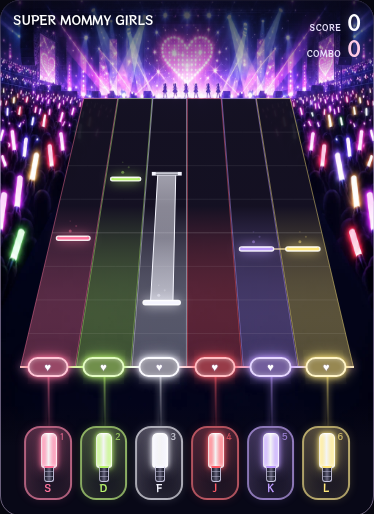
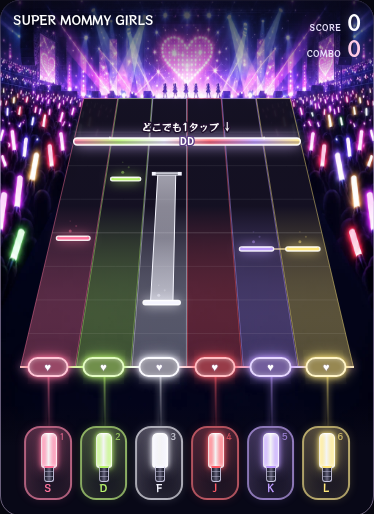
Ease hold releases and slide transfers with slimmer DD and themed results

Changed region(s): [[0.1765, 0.2179, 0.8235, 0.3113]]

diff --git a/src/engine.ts b/src/engine.ts
@@ -3,6 +3,8 @@ import { copyNote } from './chart';
 import { playableNotes, chordGroups } from './note-display';
 
 export const WINDOWS = { PERFECT: 0.05, GREAT: 0.1, GOOD: 0.16 } as const;
+/** More forgiving releases and slide checkpoints; starts still use WINDOWS. */
+export const HOLD_WINDOWS = { PERFECT: 0.1, GREAT: 0.18, GOOD: 0.25 } as const;
 export const POINTS = { PERFECT: 1000, GREAT: 700, GOOD: 300, MISS: 0 } as const;
 export const BOX_WINDOWS = { PERFECT:.15, GREAT:.25, GOOD:.35 } as const;
 export const BOX_SWEEP_SECONDS = .25;
@@ -14,11 +16,11 @@ export interface Hit { judgement: Judgement; lane: number; errorMs: number; note
 export const playLane = (note: PlayNote): number => note.activeLane ?? note.lane;
 const EPSILON = 1e-8;
 
-export function judge(error: number): Judgement {
+export function judge(error: number, windows: Readonly<Record<'PERFECT' | 'GREAT' | 'GOOD', number>> = WINDOWS): Judgement {
   const absolute = Math.abs(error);
-  if (absolute <= WINDOWS.PERFECT + EPSILON) return 'PERFECT';
-  if (absolute <= WINDOWS.GREAT + EPSILON) return 'GREAT';
-  if (absolute <= WINDOWS.GOOD + EPSILON) return 'GOOD';
+  if (absolute <= windows.PERFECT + EPSILON) return 'PERFECT';
+  if (absolute <= windows.GREAT + EPSILON) return 'GREAT';
+  if (absolute <= windows.GOOD + EPSILON) return 'GOOD';
   return 'MISS';
 }
 
@@ -84,17 +86,17 @@ export class GameEngine {
       }
       if (note.state === 'holding' && note.type === 'hold') {
         const point = note.path?.[note.pathIndex ?? 0];
-        if (point && time - point.time > WINDOWS.GOOD + EPSILON) { updates.push(this.record(note, 'MISS', time - point.time)); continue; }
+        if (point && time - point.time > HOLD_WINDOWS.GOOD + EPSILON) { updates.push(this.record(note, 'MISS', time - point.time)); continue; }
         // Transfer on either the new press, or release of the old key while the next is held.
         // Holding both before the checkpoint alone cannot score it.
         const releasedCurrent = previousPressed.has(playLane(note)) && !pressed?.has(playLane(note));
-        if (point && pressed?.has(point.lane) && (!previousPressed.has(point.lane) || releasedCurrent) && Math.abs(time - point.time) <= WINDOWS.GOOD + EPSILON) {
-          const error = time - point.time, judgement = judge(error);
+        if (point && pressed?.has(point.lane) && (!previousPressed.has(point.lane) || releasedCurrent) && Math.abs(time - point.time) <= HOLD_WINDOWS.GOOD + EPSILON) {
+          const error = time - point.time, judgement = judge(error, HOLD_WINDOWS);
           note.activeLane = point.lane; note.pathIndex = (note.pathIndex ?? 0) + 1;
           if (POINTS[judgement] < POINTS[note.startJudgement ?? 'MISS']) { note.startJudgement = judgement; note.startError = error; }
           updates.push({judgement, lane: point.lane, errorMs: error * 1000, noteId: note.id, phase: 'move'});
         }
-        if (time - note.endTime > WINDOWS.GOOD + EPSILON || (pressed && !pressed.has(playLane(note)))) {
+        if (time - note.endTime > HOLD_WINDOWS.GOOD + EPSILON || (pressed && !pressed.has(playLane(note)))) {
           const hit = this.finishHold(note, time);
           updates.push(hit);
         }
@@ -160,7 +162,7 @@ export class GameEngine {
 
   private finishHold(note: PlayNote & { type: 'hold' }, time: number): Hit {
     if ((note.pathIndex ?? 0) < (note.path?.length ?? 0)) return this.record(note, 'MISS', time - note.endTime);
-    const endJudgement = judge(time - note.endTime), startJudgement = note.startJudgement ?? 'MISS';
+    const endJudgement = judge(time - note.endTime, HOLD_WINDOWS), startJudgement = note.startJudgement ?? 'MISS';
     const endIsWorse = POINTS[endJudgement] < POINTS[startJudgement];
     return this.record(note, endIsWorse ? endJudgement : startJudgement, endIsWorse ? time - note.endTime : note.startError ?? 0);
   }

diff --git a/tests/gimmicks.test.ts b/tests/gimmicks.test.ts
@@ -136,21 +136,21 @@ describe('slide gestures', () => {
     const engine = new GameEngine(chart([slide()])); engine.input(0,1);
     engine.advance(2.12,new Set([0,1])); expect(engine.release(0,2.13)).toEqual([]);
     engine.advance(2.5,new Set([1])); engine.advance(3,new Set([1,2])); engine.release(1,3);
-    expect(engine.release(2,4)[0].judgement).toBe('GOOD'); expect(engine.score).toBe(300);
+    expect(engine.release(2,4)[0].judgement).toBe('GREAT'); expect(engine.score).toBe(700);
   });
   it('fails when released early, at a missed checkpoint, or after holding past the tail', () => {
     for (const mode of ['release','checkpoint','tail']) {
       const engine = new GameEngine(chart([slide()])); engine.input(0,1);
       if (mode==='release') engine.release(0,1.5);
-      if (mode==='checkpoint') engine.advance(2.17,new Set([0]));
-      if (mode==='tail') {engine.advance(2,new Set([1]));engine.advance(3,new Set([2]));engine.advance(4.17,new Set([2]));}
+      if (mode==='checkpoint') engine.advance(2.2501,new Set([0]));
+      if (mode==='tail') {engine.advance(2,new Set([1]));engine.advance(3,new Set([2]));engine.advance(4.2501,new Set([2]));}
       expect(engine.score).toBe(0); expect(engine.counts.MISS).toBe(1); expect(engine.finished).toBe(true);
       engine.advance(5,new Set()); expect(engine.counts.MISS).toBe(1);
     }
   });
   it('does not accept a next key held too early or a skipped intermediate lane', () => {
     const engine = new GameEngine(chart([slide()])); engine.input(0,1);
-    engine.advance(1.5,new Set([0,1])); engine.advance(2,new Set([0,1])); engine.advance(2.17,new Set([0,1]));
+    engine.advance(1.5,new Set([0,1])); engine.advance(2,new Set([0,1])); engine.advance(2.2501,new Set([0,1]));
     expect(engine.counts.MISS).toBe(1); expect(engine.score).toBe(0);
     engine.reset(); engine.input(0,1); engine.advance(2,new Set([2])); expect(engine.counts.MISS).toBe(1);
   });
@@ -159,6 +159,27 @@ describe('slide gestures', () => {
     engine.seek(3,false); expect(engine.notes[0].state).toBe('skipped');
     engine.seek(0,true); expect(engine.notes[0].pathIndex).toBeUndefined();
     engine.notes[0].path![0].time=99; expect(data.notes[0].path![0].time).toBe(2);
+  });
+  it.each([[-.2501,'MISS'],[-.25,'GOOD'],[-.18,'GREAT'],[-.1,'PERFECT'],[.1,'PERFECT'],[.1001,'GREAT'],[.18,'GREAT'],[.1801,'GOOD'],[.25,'GOOD'],[.2501,'MISS']] as const)('accepts a distant checkpoint at %ss only inside the extended window', (error, judgement) => {
+    const note = slide(); note.path = [{time:2,lane:5}];
+    const engine = new GameEngine(chart([note]));
+    engine.advance(1,new Set([0])); engine.input(0,1);
+    const hits = engine.advance(2+error,new Set([5]));
+    expect(hits[0].judgement).toBe(judgement);
+    if (judgement !== 'MISS') {
+      expect(hits[0]).toMatchObject({phase:'move',lane:5});
+      expect(engine.score).toBe(0); expect(engine.combo).toBe(0);
+      expect(engine.release(5,4)[0].judgement).toBe(judgement);
+    }
+    expect(engine.counts[judgement]).toBe(1);
+    engine.advance(5,new Set()); expect(Object.values(engine.counts).reduce((a,b)=>a+b,0)).toBe(1);
+  });
+  it('does not apply the wider hold windows to taps, DD or slide starts', () => {
+    for (const note of [{id:1,type:'tap' as const,time:1,lane:0},{id:1,type:'tap' as const,gimmick:'dd' as const,time:1,lane:0},slide()]) {
+      const engine = new GameEngine(chart([note]));
+      expect(engine.input(0,.8)).toBeNull();
+      engine.advance(1.1601,new Set()); expect(engine.counts.MISS).toBe(1);
+    }
   });
 });
 

diff --git a/tests/browser/hold-tolerance.spec.ts b/tests/browser/hold-tolerance.spec.ts
@@ -1,0 +1,46 @@
+import {test,expect} from '@playwright/test';
+import type {Page} from '@playwright/test';
+import {api} from './mock-video';
+
+async function advanceTo(page:Page,time:number) {
+  const current=await page.evaluate(()=>(window as any).testVideo.getCurrentTime());
+  await page.clock.runFor(Math.round((time-current)*1000));
+}
+
+for(const slide of [false,true]) for(const error of [-.22,.22]) test(`${slide?'slide checkpoints and tail':'hold tail'} accept ${error<0?'early':'late'} 220ms input through the game controls`,async({page},info)=>{
+  await page.clock.install({time:new Date('2026-10-17T00:00:00Z')});
+  await page.clock.pauseAt(new Date('2026-10-17T00:00:01Z'));
+  await page.route('https://www.youtube.com/iframe_api',route=>route.fulfill({body:api}));
+  await page.addInitScript(slide=>{
+    localStorage.setItem('hey-rhythm-settings-v1',JSON.stringify({sound:false}));
+    localStorage.setItem('hey-rhythm-custom-chart-v1',JSON.stringify({videoId:'pJDfWpZ7CI4',title:'gentle holds',bpm:120,startTime:10,
+      notes:[{id:1,type:'hold',time:10,endTime:13,lane:0,...(slide?{gimmick:'slide',path:[{time:11,lane:5}]}:{})}]}));
+  },slide);
+  await page.goto('/game.html?chart=custom');
+  // Let the async mock API load before advancing its paused onReady timer.
+  await expect.poll(()=>page.evaluate(()=>Boolean((window as any).testVideo))).toBe(true);
+  await page.clock.runFor(100);
+  await expect(page.locator('#restart')).toBeEnabled();
+  await page.evaluate(()=>{(window as any).testVideo.seekTo(10);(window as any).testVideo.playVideo();});
+  await page.clock.runFor(16);
+  const touch=info.project.name==='mobile-touch'?await page.context().newCDPSession(page):null;
+  const pads=await page.locator('.lane-button').evaluateAll(nodes=>nodes.map(node=>{const r=node.getBoundingClientRect();return{id:1,x:r.x+r.width/2,y:r.y+r.height/2};}));
+  if(touch) await touch.send('Input.dispatchTouchEvent',{type:'touchStart',touchPoints:[pads[0]]});
+  else await page.keyboard.down('s');
+  await expect(page.locator('#judgement-0 .judgement-label')).toHaveText('HOLD');
+  if(slide) {
+    await advanceTo(page,11+error);
+    if(touch) await touch.send('Input.dispatchTouchEvent',{type:'touchMove',touchPoints:[pads[5]]});
+    else {await page.keyboard.down('l');await page.keyboard.up('s');}
+    await expect(page.locator('#judgement-5 .judgement-label')).toHaveText(/推し変|HOLD/);
+  }
+  await advanceTo(page,13+error);
+  await expect(page.locator('#score')).toHaveText('0');
+  if(touch) await touch.send('Input.dispatchTouchEvent',{type:'touchEnd',touchPoints:[]});
+  else await page.keyboard.up(slide?'l':'s');
+  await expect(page.locator('#score')).toHaveText('300');
+  await expect(page.locator('#combo')).toHaveText('1');
+  await expect(page.locator('#result h2')).toHaveText('レスキャッチ完了！');
+  await expect(page.locator('#result-counts div').filter({hasText:'GOOD'}).locator('strong')).toHaveText('1');
+  await touch?.detach();
+});

diff --git a/game.html b/game.html
@@ -85,7 +85,8 @@
           <label for="travel">ノーツ落下時間 <output id="travel-value">2.50秒</output></label>
           <input id="travel" type="range" min="1" max="4" step="0.25" value="2.5" />
           <p class="field-help">ノーツが現れてから判定ラインに届くまでの時間です。大きくすると早めに見えて余裕が増えます。初期値は2.5秒。保存済みの値は引き継ぎます。</p>
-          <p class="field-help">判定はノーツの中心で行います。薄い帯がGOOD（±160ms）、中間がGREAT（±100ms）、濃い帯がPERFECT（±50ms）。</p>
+          <p class="field-help">通常のタップ・長推しの始点はノーツの中心で判定します。薄い帯がGOOD（±160ms）、中間がGREAT（±100ms）、濃い帯がPERFECT（±50ms）。</p>
+          <p class="field-help">長推し・推し変の終点と、推し変の持ち替えはゆったり判定：PERFECT ±100ms／GREAT ±180ms／GOOD ±250ms。</p>
           <p class="field-help">バーの厚さは曲全体で16分音符に合わせて統一しています。密な譜面は落下時間を短くすると間隔が広がります。ハート付きのバーを押し、長い帯は二重線の終点で離します。連結線は同時推し、横向きの矢印は推し変の持ち替えタイミングです。</p>
           <label for="offset">ノーツ全体の位置 <output id="offset-value">0 ms</output></label>
           <input id="offset" type="range" min="-300" max="300" step="10" value="0" />
@@ -109,7 +110,7 @@
           <p id="storage-status" class="field-help">設定はこのブラウザに保存されます。</p>
         </section>
         <section id="result" class="panel result" aria-label="プレイ結果" tabindex="-1" hidden>
-          <div class="panel-heading"><div><p class="eyebrow">LIVE COMPLETE</p><h2>おつかれさまでした！</h2></div><button id="result-close" class="text-button">閉じる ×</button></div>
+          <div class="panel-heading"><div><p class="eyebrow">LIVE COMPLETE</p><h2>レスキャッチ完了！</h2></div><button id="result-close" class="text-button">閉じる ×</button></div>
           <div class="result-headline"><strong id="result-score">0</strong><span>SCORE</span><span id="result-combo"></span></div>
           <div id="result-counts" class="result-counts"></div><p id="result-accuracy" class="field-help"></p>
           <p class="field-help">MVはそのまま再生されます。もう一度遊ぶならリスタート！</p>

diff --git a/tests/browser/gimmicks.spec.ts b/tests/browser/gimmicks.spec.ts
@@ -1,6 +1,6 @@
 import {test,expect} from '@playwright/test';
 import {readFileSync} from 'node:fs';
-import {api,seekPlay,waitForVideoTime} from './mock-video';
+import {api} from './mock-video';
 
 const sample=readFileSync(new URL('../../charts/source/oshi-gimmicks.mid',import.meta.url));
 const saved = (page: import('@playwright/test').Page) => page.evaluate(() => JSON.parse(localStorage.getItem('hey-rhythm-editor-v1')!));
@@ -40,11 +40,14 @@ test('edits DD and slide checkpoints through the browser and uses the real game 
   await page.getByRole('button',{name:'ノーツ2を選択',exact:true}).click();await page.locator('#note-type').selectOption('dd');
   await page.locator('#try-game').click();await expect(page.locator('#chart-source')).toHaveValue('custom');
   await expect(page.locator('#play-start')).toBeEnabled();
-  await seekPlay(page,9.75);await waitForVideoTime(page,10);await page.keyboard.down('s');
-  await waitForVideoTime(page,11);await page.keyboard.down('d');await page.keyboard.up('s');
+  // Native key dispatch must not drift out of PERFECT while other browser suites run.
+  await page.clock.install();await page.clock.pauseAt(new Date(Date.now()+1000));
+  await page.evaluate(()=>{const video=(window as any).testVideo;video.seekTo(9.75);video.playVideo();});
+  await page.clock.runFor(250);await page.keyboard.down('s');
+  await page.clock.runFor(1000);await page.keyboard.down('d');await page.keyboard.up('s');
   await expect(page.locator('.judgement-label').nth(1)).toHaveText(/推し変|HOLD/);
-  await waitForVideoTime(page,12);await page.keyboard.down('f');await page.keyboard.up('d');
-  await waitForVideoTime(page,13);await page.keyboard.up('f');await expect(page.locator('#score')).toHaveText('1,000');
-  await waitForVideoTime(page,14);await page.keyboard.press('l');await expect(page.locator('#score')).toHaveText('2,000');
+  await page.clock.runFor(1000);await page.keyboard.down('f');await page.keyboard.up('d');
+  await page.clock.runFor(1000);await page.keyboard.up('f');await expect(page.locator('#score')).toHaveText('1,000');
+  await page.clock.runFor(1000);await page.keyboard.press('l');await expect(page.locator('#score')).toHaveText('2,000');
   await expect(page.locator('#result-score')).toHaveText('2,000');
 });

diff --git a/src/renderer.ts b/src/renderer.ts
@@ -1,5 +1,5 @@
 import type { PlayNote } from './engine';
-import { BOX_SWEEP_SECONDS, BOX_WINDOWS, WINDOWS, playLane } from './engine';
+import { BOX_SWEEP_SECONDS, BOX_WINDOWS, HOLD_WINDOWS, WINDOWS, playLane } from './engine';
 import { laneAt } from './chart';
 import { slideRoute } from './slide-route';
 import { responseMark } from './response-art';
@@ -78,7 +78,7 @@ export class Renderer {
       const from = route[i - 1], to = route[i];
       if (from.time === to.time) {
         const q = progressAt(to.time);
-        if (q < 0 || q > 1 + WINDOWS.GOOD / travel) continue;
+        if (q < 0 || q > 1 + HOLD_WINDOWS.GOOD / travel) continue;
         const start = project(field, from.lane, q), end = project(field, to.lane, q);
         const gradient = ctx.createLinearGradient(start.x, start.y, end.x, end.y);
         gradient.addColorStop(0, LANE_COLORS[from.lane]); gradient.addColorStop(1, LANE_COLORS[to.lane]);
@@ -95,8 +95,9 @@ export class Renderer {
       }
     }
     if (note.type === 'hold') {
-      const tailP = progressAt(note.endTime);
-      if (tailP >= 0 && tailP <= 1 + WINDOWS.GOOD / travel) {
+      // A held endpoint waits at the receptor throughout the extended release window.
+      const tailP = Math.min(p, progressAt(note.endTime));
+      if (tailP >= 0 && tailP <= 1 + HOLD_WINDOWS.GOOD / travel) {
         const tail = project(field, laneAt(note, note.endTime), tailP);
         this.releaseCap(tail, thickness * tail.scale, LANE_COLORS[laneAt(note, note.endTime)]);
       }
@@ -218,7 +219,7 @@ export class Renderer {
         if (rawTail >= 0) this.releaseCap(tail, referenceThickness * tail.scale, color);
       }
       if (note.gimmick === 'dd') {
-        const center = project(field, 2.5, p), width = project(field, 5.49, p).x - project(field, -.49, p).x, height = 16 * center.scale;
+        const center = project(field, 2.5, p), width = project(field, 5.49, p).x - project(field, -.49, p).x, height = 10 * center.scale;
         const left = center.x - width / 2, top = center.y - height / 2;
         const gradient = ctx.createLinearGradient(left, 0, left + width, 0);
         LANE_COLORS.forEach((color, i) => gradient.addColorStop(i / 5, color));

diff --git a/tests/hold.test.ts b/tests/hold.test.ts
@@ -27,7 +27,7 @@ describe('hold endpoint judgement and chord scoring', () => {
     expect(engine.combo).toBe(0); expect(engine.maxCombo).toBe(1); expect(engine.counts.MISS).toBe(1);
     expect(engine.input(0, 10.05)).toBeNull(); expect(engine.advance(12, held())).toEqual([]);
   });
-  it.each([[10.8399, 'MISS'], [10.84, 'GOOD'], [10.9, 'GREAT'], [10.95, 'PERFECT'], [11, 'PERFECT'], [11.05, 'PERFECT'], [11.1, 'GREAT'], [11.16, 'GOOD'], [11.1601, 'MISS']])('judges the actual endpoint release at %s', (time, expected) => {
+  it.each([[10.7499, 'MISS'], [10.75, 'GOOD'], [10.8199, 'GOOD'], [10.82, 'GREAT'], [10.8999, 'GREAT'], [10.9, 'PERFECT'], [11, 'PERFECT'], [11.1, 'PERFECT'], [11.1001, 'GREAT'], [11.18, 'GREAT'], [11.1801, 'GOOD'], [11.25, 'GOOD'], [11.2501, 'MISS']])('judges the actual endpoint release at %s', (time, expected) => {
     const engine = game(); engine.input(0, 10);
     expect(engine.release(0, time as number)[0].judgement).toBe(expected);
   });
@@ -59,9 +59,9 @@ describe('hold endpoint judgement and chord scoring', () => {
   });
   it('fails a hold that stays pressed beyond the endpoint window without adding points', () => {
     const engine = game(); engine.input(0, 10);
-    expect(engine.advance(11.16, held(0))).toEqual([]); expect(engine.score).toBe(0);
-    expect(engine.advance(11.161, held(0))).toMatchObject([{judgement:'MISS'}]);
-    expect(engine.score).toBe(0); expect(engine.release(0, 11.2)).toEqual([]);
+    expect(engine.advance(11.25, held(0))).toEqual([]); expect(engine.score).toBe(0);
+    expect(engine.advance(11.2501, held(0))).toMatchObject([{judgement:'MISS'}]);
+    expect(engine.score).toBe(0); expect(engine.release(0, 11.3)).toEqual([]);
     expect(engine.counts.MISS).toBe(1);
   });
   it('skips an active hold on forward seek and resets on backwards seek', () => {

diff --git a/tests/browser/response-ui.spec.ts b/tests/browser/response-ui.spec.ts
@@ -51,12 +51,12 @@ test('DD spans all six lanes throughout its flight while keeping a single note h
     const renderer = new Renderer(canvas), ctx = canvas.getContext('2d')!, original = ctx.roundRect.bind(ctx);
     const rect = canvas.getBoundingClientRect(), field = fieldGeometry(rect.width, rect.height);
     const engine = new GameEngine({videoId:'pJDfWpZ7CI4',title:'DD',bpm:120,startTime:10,notes:[{id:1,type:'tap',gimmick:'dd',lane:2,time:10}]});
-    let heads: {left:number;right:number;y:number}[] = [];
-    ctx.roundRect = function(x,y,w,h,r) {heads.push({left:x,right:x+w,y:y+h/2}); original(x,y,w,h,r);};
+    let heads: {left:number;right:number;y:number;height:number}[] = [];
+    ctx.roundRect = function(x,y,w,h,r) {heads.push({left:x,right:x+w,y:y+h/2,height:h}); original(x,y,w,h,r);};
     try {
       return [.1,.5,1].map(p => {
         heads = []; renderer.draw(engine.notes, 10 + (p - 1) * 2.5, 2.5, 0);
-        return {heads, left:project(field,-.49,p).x, right:project(field,5.49,p).x, y:project(field,2.5,p).y};
+        return {heads, left:project(field,-.49,p).x, right:project(field,5.49,p).x, y:project(field,2.5,p).y, height:10*project(field,2.5,p).scale};
       });
     } finally {ctx.roundRect = original; renderer.destroy();}
   });
@@ -64,6 +64,7 @@ test('DD spans all six lanes throughout its flight while keeping a single note h
     expect(frame.heads).toHaveLength(1);
     expect(frame.heads[0].left).toBeCloseTo(frame.left,6); expect(frame.heads[0].right).toBeCloseTo(frame.right,6);
     expect(frame.heads[0].y).toBeCloseTo(frame.y,6);
+    expect(frame.heads[0].height).toBeCloseTo(frame.height,6);
   }
 });
 

diff --git a/tests/score-groups.test.ts b/tests/score-groups.test.ts
@@ -30,7 +30,7 @@ it('groups the same 1ms heads as the visible connector, but leaves separate note
   engine.advance(10.2); expect(engine.score).toBe(1000);
 });
 it('cancels the tap portion of a chord when its hold tail misses', () => {
-  for (const release of [10.5,11.2]) {
+  for (const release of [10.5,11.2501]) {
     const engine=game([hold(0),tap(1)]); engine.input(1,10); engine.input(0,10);
     expect(engine.score).toBe(0); engine.release(0,release);
     expect(engine.score).toBe(0); expect(engine.counts.MISS).toBe(1);
@@ -39,8 +39,8 @@ it('cancels the tap portion of a chord when its hold tail misses', () => {
 it('waits for different hold endpoints and uses their actual tail judgement', () => {
   const engine=game([hold(0),hold(1,12)]); engine.input(0,10); engine.input(1,10);
   engine.release(0,11.08); expect(engine.score).toBe(0);
-  engine.release(1,12.15); expect(engine.score).toBe(1000);
-  expect(engine.counts).toEqual({PERFECT:0,GREAT:1,GOOD:1,MISS:0});
+  engine.release(1,12.15); expect(engine.score).toBe(1700);
+  expect(engine.counts).toEqual({PERFECT:1,GREAT:1,GOOD:0,MISS:0});
 });
 it('discards incomplete chord points on a seek and resets the group settlement for replay', () => {
   const engine=game([tap(0),hold(1)]); engine.input(0,10); engine.input(1,10);

diff --git a/src/main.ts b/src/main.ts
@@ -421,7 +421,7 @@ function frame(now: number): void {
     stageHint.querySelector<HTMLElement>('span:last-child')!.hidden = false;
   } else {
     stageHint.hidden = sample.playing || resultShown;
-    const hint = clockStale ? '再生時刻の更新を待っています' : state === PLAYER_STATE.PAUSED ? '一時停止中' : state === PLAYER_STATE.BUFFERING ? '動画を読み込み中…' : state === PLAYER_STATE.ENDED ? 'おつかれさまでした！' : '動画の▶でライブをはじめよう';
+    const hint = clockStale ? '再生時刻の更新を待っています' : state === PLAYER_STATE.PAUSED ? '一時停止中' : state === PLAYER_STATE.BUFFERING ? '動画を読み込み中…' : state === PLAYER_STATE.ENDED ? 'レスキャッチ完了！' : '動画の▶でライブをはじめよう';
     stageHint.querySelector('strong')!.textContent = hint;
     stageHint.querySelector('span:last-child')!.textContent = '';
     stageHint.querySelector<HTMLElement>('span:last-child')!.hidden = true;

diff --git a/tests/timing.test.ts b/tests/timing.test.ts
@@ -30,9 +30,10 @@ describe('input compensation', () => {
     expect(engine.advance(compensateInput(13.2, 200), new Set([0]))).toEqual([]);
     expect(engine.release(0, compensateInput(13.2, 200))[0].judgement).toBe('PERFECT');
     const released = new GameEngine(chart); released.input(0, compensateInput(12.2, 200));
-    expect(released.release(0, compensateInput(13.1, 200))[0].judgement).toBe('GREAT');
+    expect(released.release(0, compensateInput(13.1, 200))[0].judgement).toBe('PERFECT');
     const overdue = new GameEngine(chart); overdue.input(0, compensateInput(12.2, 200));
-    expect(overdue.advance(compensateInput(13.361,200), new Set([0]))[0].judgement).toBe('MISS');
+    expect(overdue.advance(compensateInput(13.45,200), new Set([0]))).toEqual([]);
+    expect(overdue.advance(compensateInput(13.4501,200), new Set([0]))[0].judgement).toBe('MISS');
   });
   it('leaves zero-compensation behavior unchanged', () => {
     expect(compensateInput(12.123, 0)).toBe(12.123);
